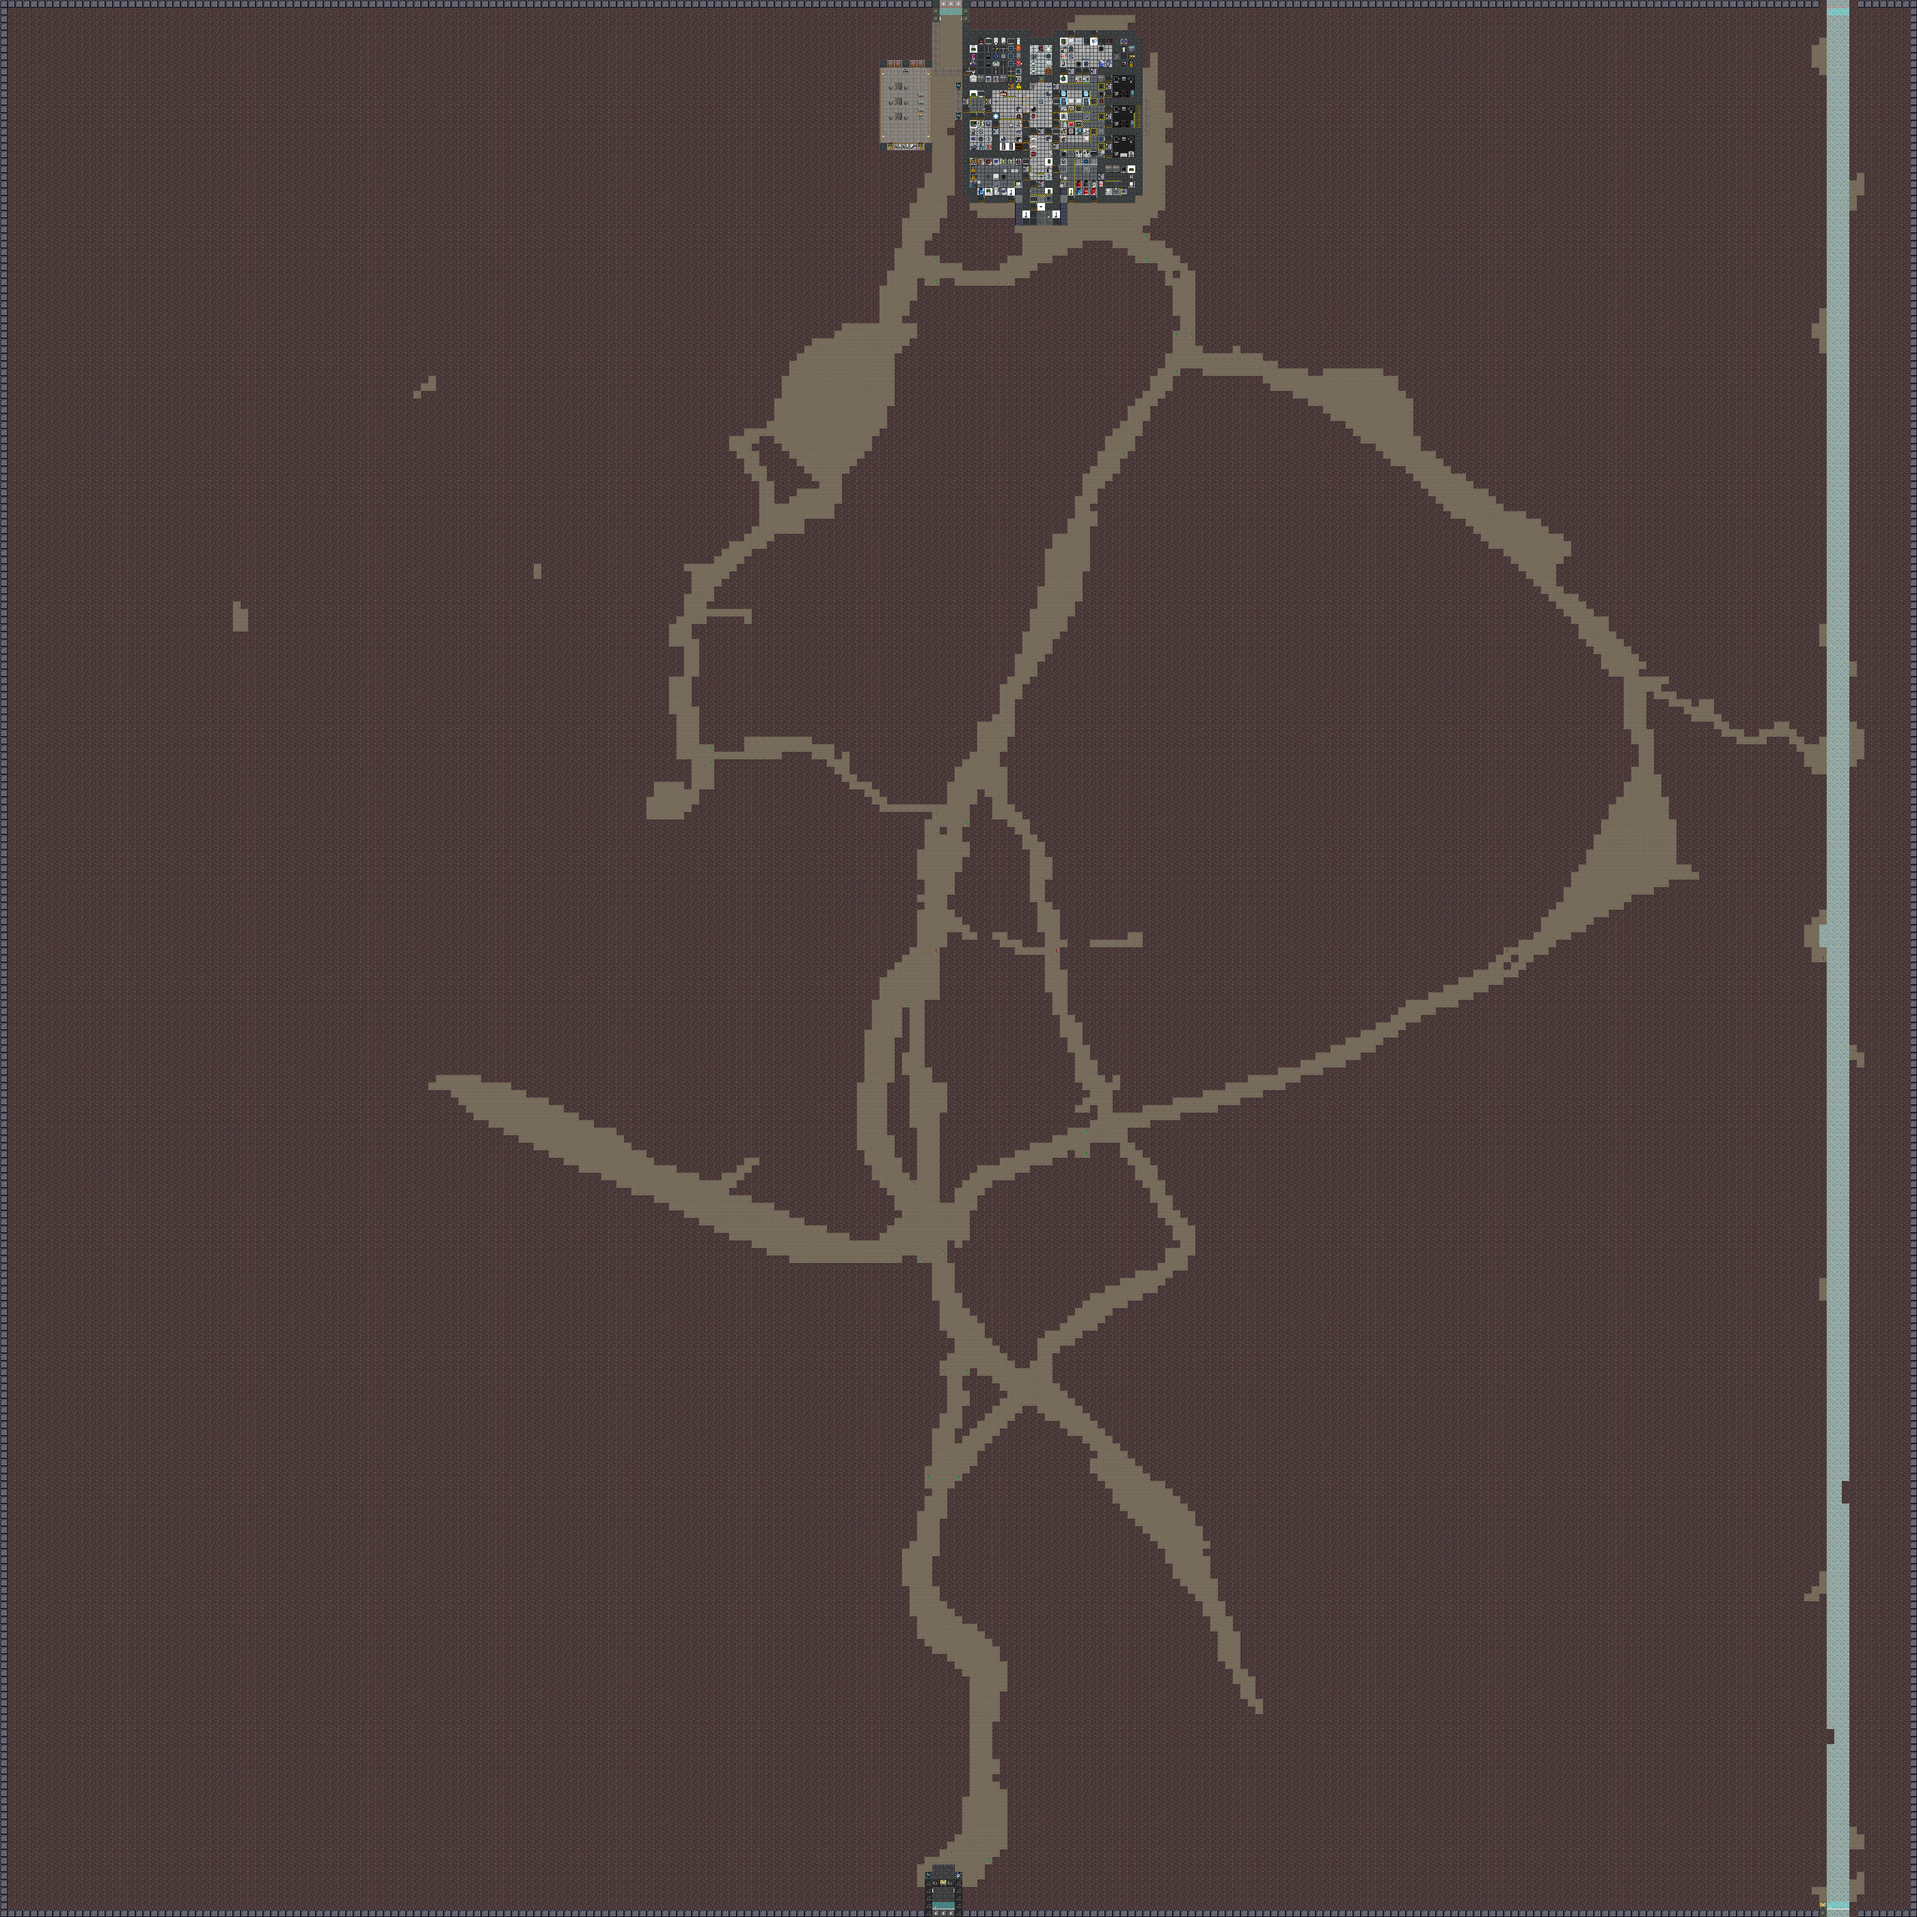
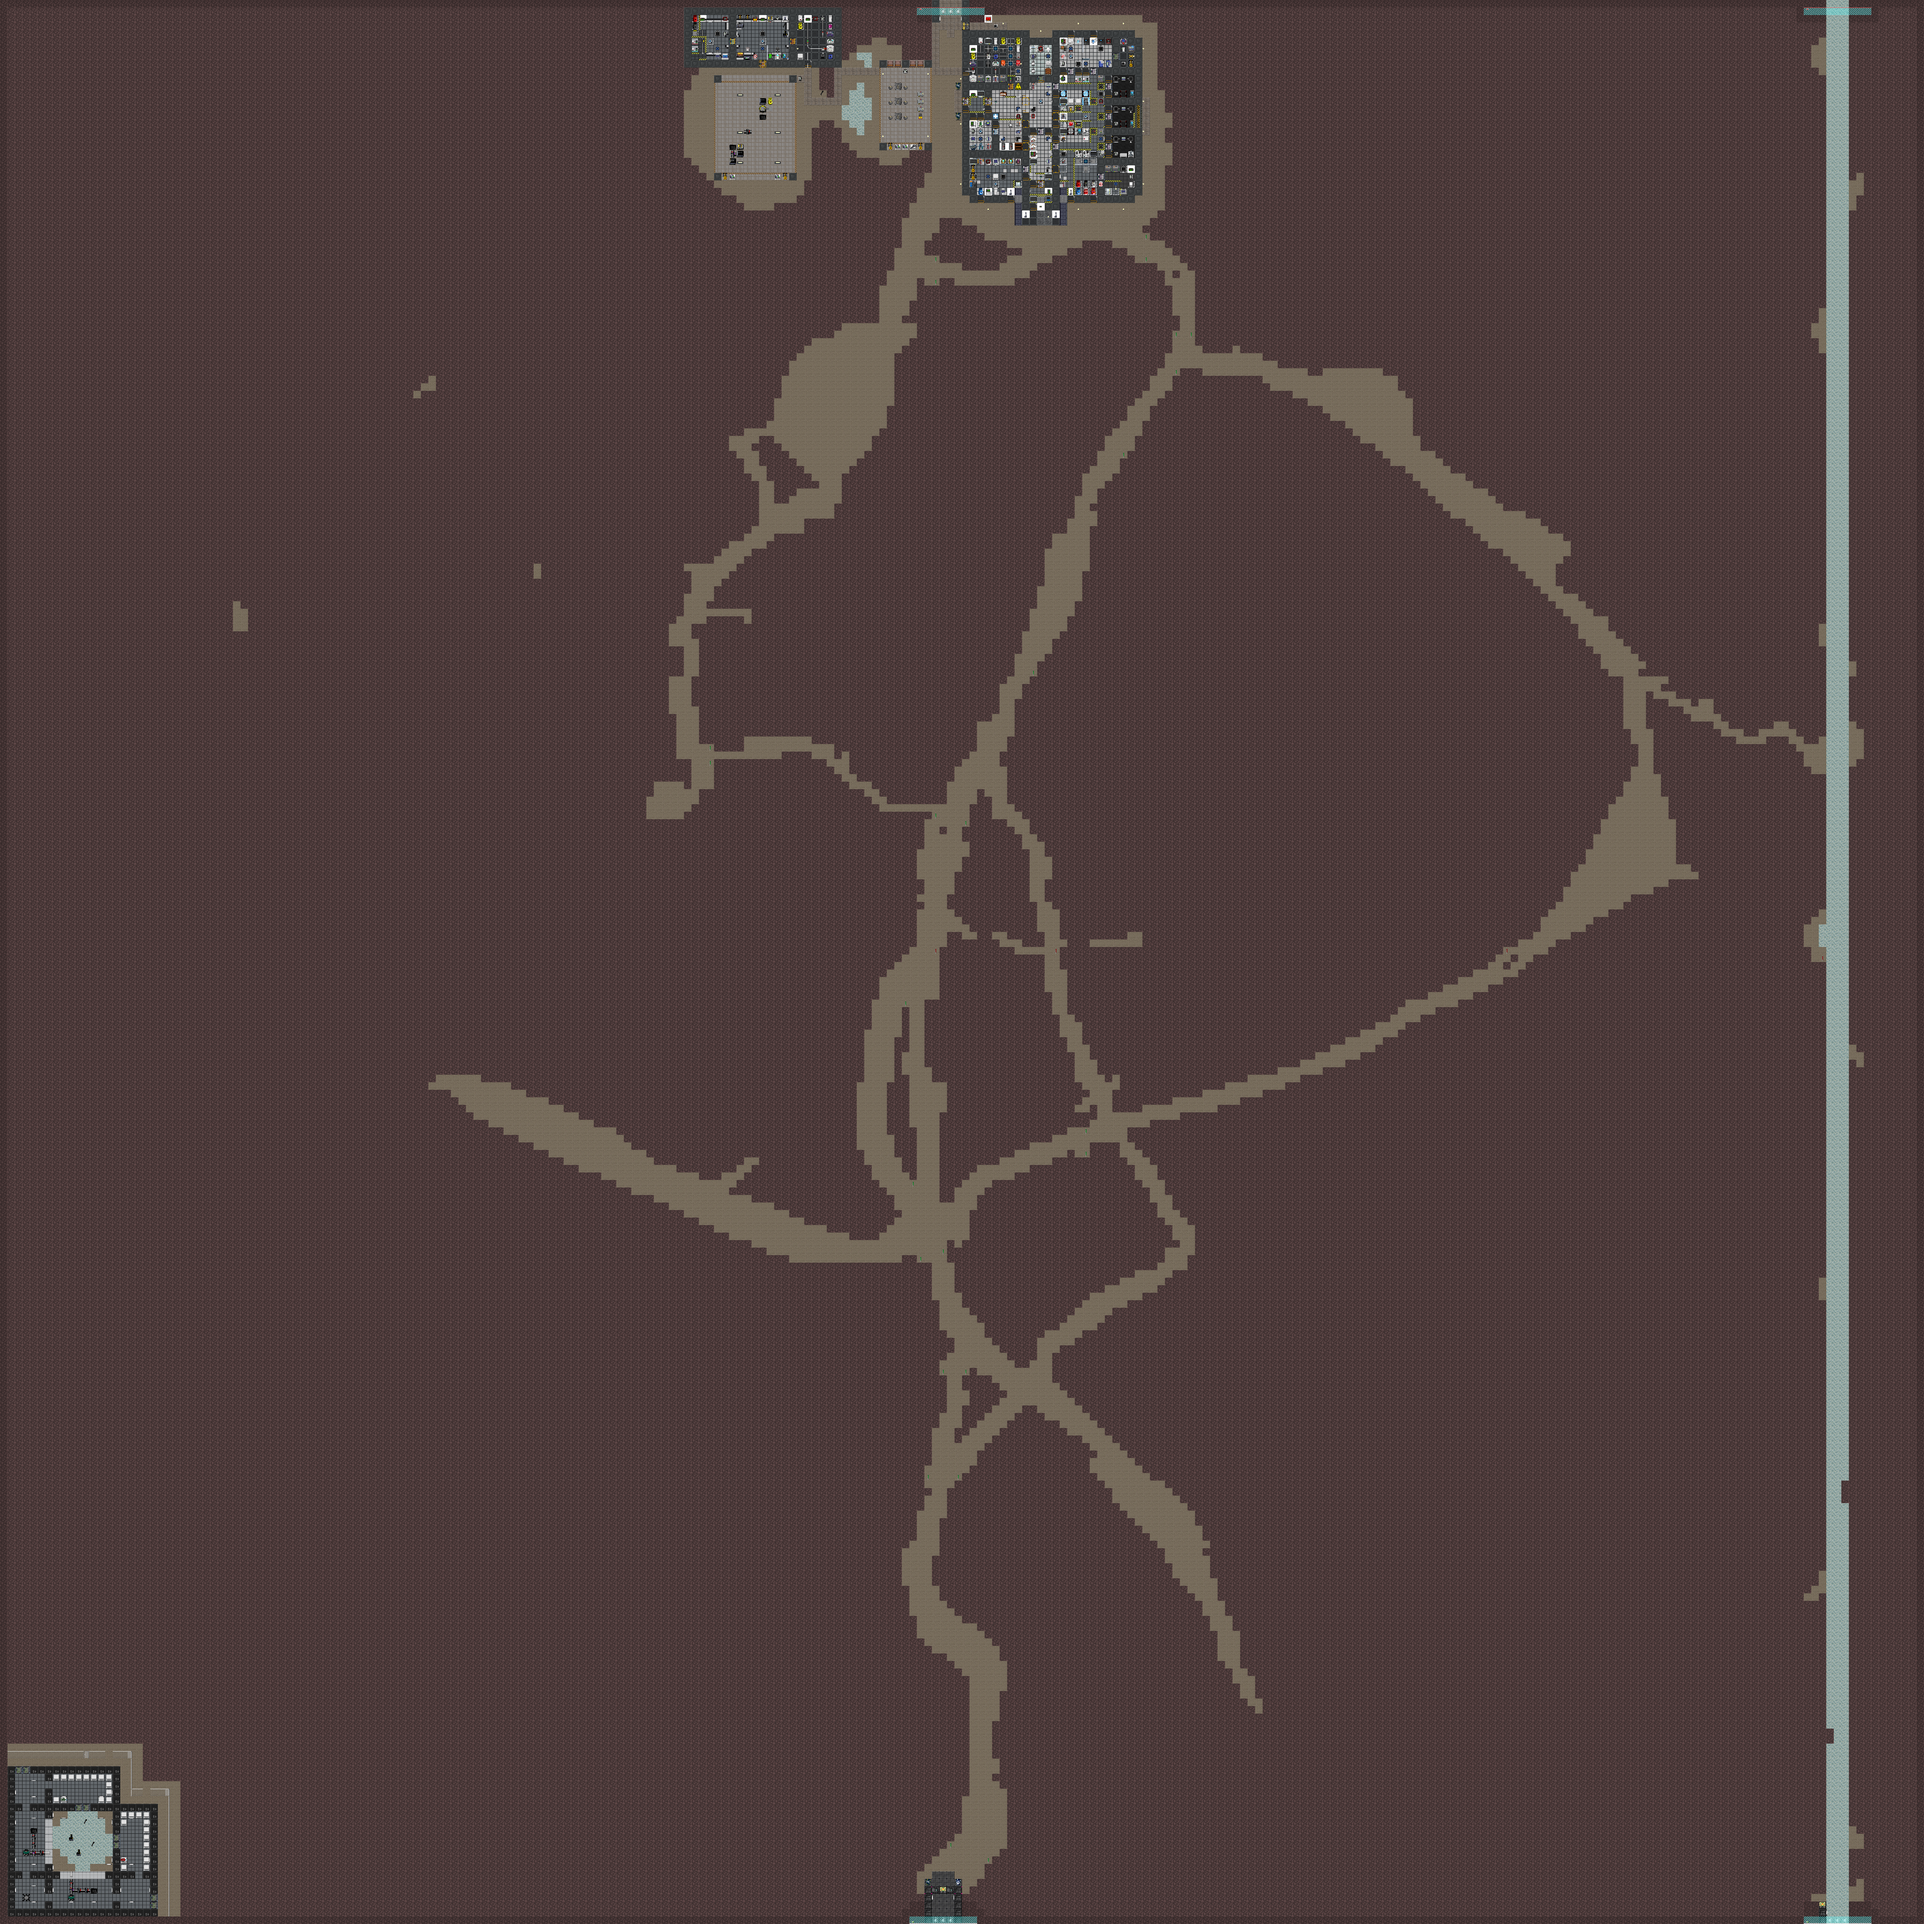
Add full four-deck SouthernCross documentation
Southern Cross has four stacked station decks (Zero through Third) connected
by turbolifts and maintenance ladders. Previous documentation only covered
the Third Deck from an archived and incomplete map source.

Switched all render sources from archive/ to modular_chomp/ build:
- Zero Deck: maintenance underbelly, gravity generator, backup power, field
- First Deck: hangars, cargo, xenobiology, teleporter, auxiliary engineering
- Second Deck: all major departments (engineering, medical, security, RnD, bar)
- Third Deck: bridge, AI core, dormitories, solar arrays

Added overview images, wiring overlays, and disposals overlays for all four
station decks. Updated planet surface and mine renders to modular_chomp source.
Removed stale archive-based deck3 and surface_mines assets.

Changed region(s): [[0.0, 0.0, 1.0, 1.0]]

diff --git a/Stations/SouthernCross/README.md b/Stations/SouthernCross/README.md
@@ -4,15 +4,39 @@
 
 **Designation:** NLS Southern Cross
 **Type:** Constructed space station with planetside installations
-**Levels:** Third Deck; planet surface; planetside mine
+**Levels:** Zero Deck; First Deck; Second Deck; Third Deck; planet surface; planetside mine
 
-Southern Cross is a purpose-built space station in orbit above a habitable planet. The station body is a compact cross-shaped platform designated the Third Deck, with solar array wings extending along all four cardinal axes. Planetside operations include a staffed surface outpost and an extensive underground mine and research facility.
+Southern Cross is a purpose-built space station in orbit above a habitable planet. The station consists of four stacked decks connected by turbolifts and maintenance ladders. Planetside operations include a staffed surface outpost and an extensive underground mine and research facility.
+
+---
+
+## Zero Deck
+
+The maintenance underbelly of the station. Houses the gravity generator complex, backup power systems, and an extensive network of maintenance corridors running beneath the operational decks. Includes the field sports hall, a small bar lounge, and various utility spaces accessed through maintenance hatches from the decks above.
+
+![Southern Cross Zero Deck](../../assets/map_sc_zerodeck.png)
+
+---
+
+## First Deck
+
+The lower operational level. Contains the primary hangars, cargo and quartermaster operations, xenobiology and xenoflora research, teleporter bay, and auxiliary engineering. The central atrium turbolift connects all four decks. Multiple escape pod bays and large hangar bays for visiting and resident craft are located on this level.
+
+![Southern Cross First Deck](../../assets/map_sc_firstdeck.png)
+
+---
+
+## Second Deck
+
+The main operational deck. Hosts all major station departments: engineering (including the engine room and atmospherics), medical, security, research and development, bar and kitchen, hydroponics, chapel, library, and holodeck facilities. Head-of-staff offices for most departments are located here. The engine room and its waste systems extend to port on this level.
+
+![Southern Cross Second Deck](../../assets/map_sc_seconddeck.png)
 
 ---
 
 ## Third Deck
 
-The single operational level of the station. A central habitation and command block houses the Bridge, AI Core, command offices, head-of-staff quarters, and primary maintenance corridors. Four solar array wings extend from the central block along the cardinal axes. The surrounding exterior hull is reinforced airless plating forming the station's outer skin.
+The uppermost station level. Contains the Bridge, AI Core, crew dormitories, head-of-staff quarters, and the station gateway. Solar array wings extend along the cardinal axes. The exterior hull on this level is reinforced airless plating.
 
 ![Southern Cross Third Deck](../../assets/map_sc_thirddeck.png)
 
@@ -22,7 +46,7 @@ The single operational level of the station. A central habitation and command bl
 
 Planetside surface installations on the planet below. The environment includes open plains, mountains, river systems, and coastal areas. Built structures include the main outpost (housing, bar, gym, security, garage, gateway, and medical), a xenobiology and xenoflora research complex, and the North Mining Outpost with its refinery.
 
-![Southern Cross Planet Surface](../../assets/map_sc_deck3.png)
+![Southern Cross Planet Surface](../../assets/map_sc_surface.png)
 
 ---
 
